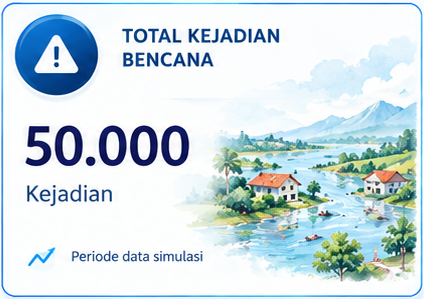
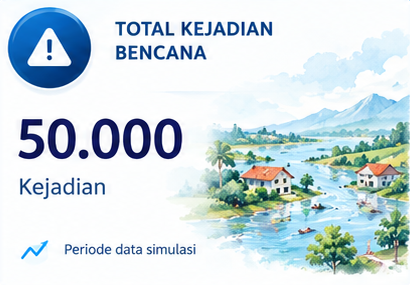
update v.5.12

diff --git a/src/components/dashboard/StatCards.tsx b/src/components/dashboard/StatCards.tsx
@@ -245,7 +245,7 @@ export default function StatCards({ status, regionData, regionLabel, onClearRegi
               />
 
               {/* Dynamic Live Text Overlay (Positioned exactly at value coordinates) */}
-              <div className="absolute left-[6.3%] top-[40.5%] flex flex-col pointer-events-none">
+              <div className="absolute left-[5%] top-[41%] flex flex-col pointer-events-none">
                 <div className="flex items-baseline gap-1.5">
                   <span className="text-2xl sm:text-2xl md:text-3xl lg:text-[26px] xl:text-[31px] font-black text-[#081a4d] tracking-tight leading-none drop-shadow-2xs">
                     {card.value}
